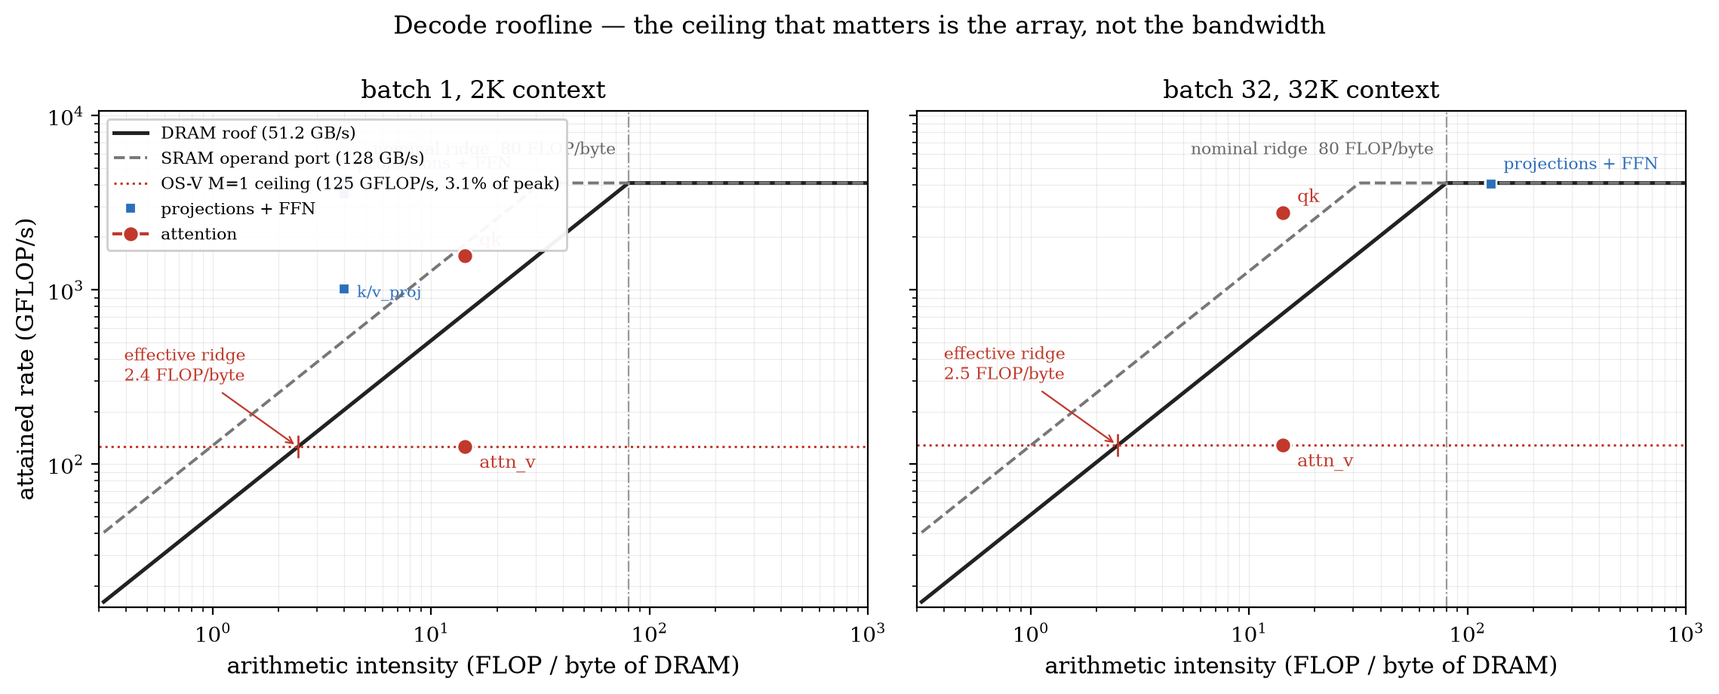
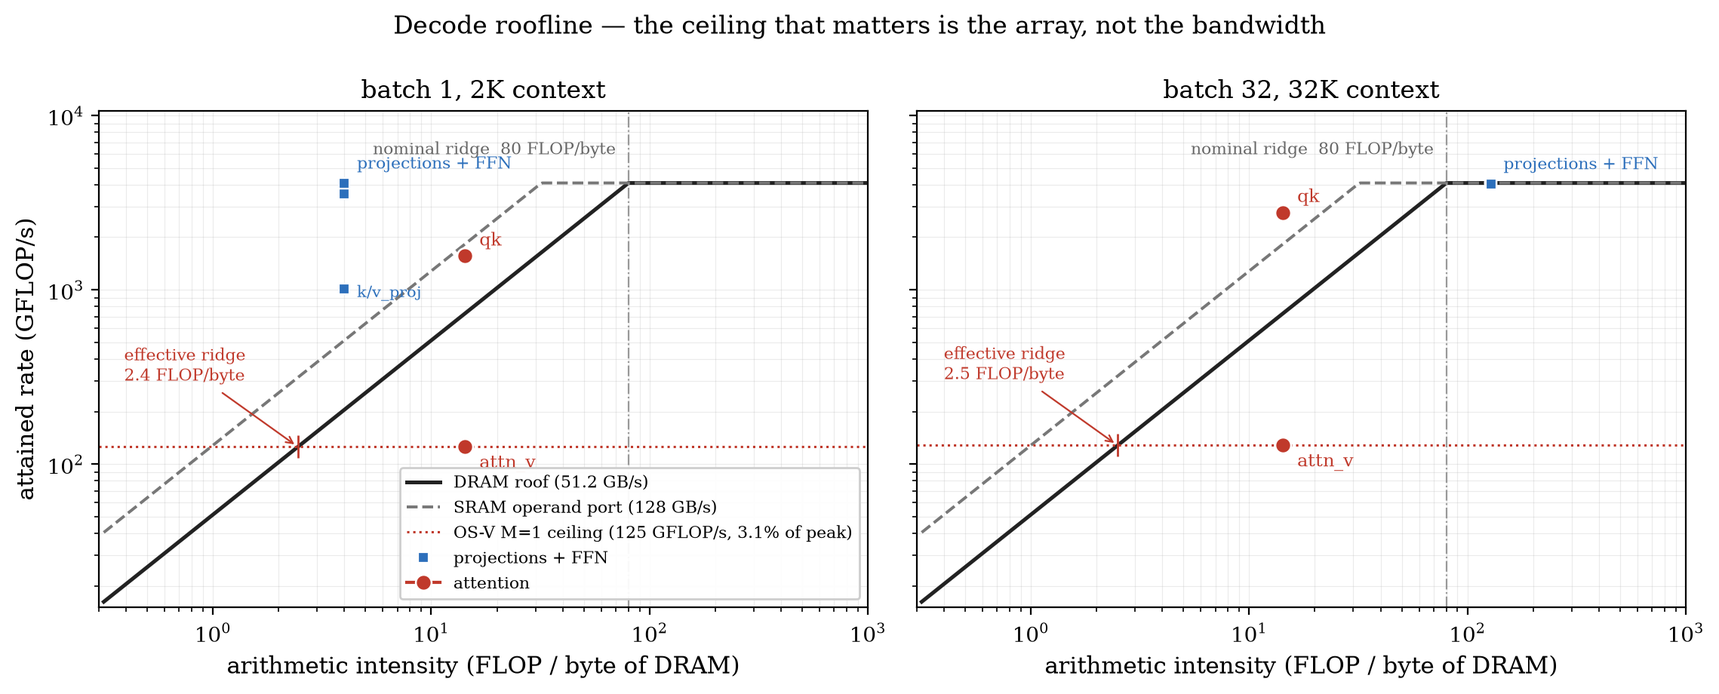
presentation2.md: the roofline, DRAM latency, and section 2 re-measured
Four things asked for, all applied.

ADDS THE ROOFLINE section 1 never had (1.5).  It answers the obvious
objection to the compute-bound verdict: decode attention runs at 14.2
FLOP/byte against an 80 FLOP/byte ridge, which reads as memory-bound.  The
80 assumes all 4,096 lanes work; attn_v lights one of 32 rows and attains
125 GFLOP/s -- 3.1% of peak -- so its effective ridge is 2.4 FLOP/byte and
14.2 clears it.  attn_v is compute-bound because the array is bad at this
shape, not because it does much arithmetic.  Also shows batching moving
the projections across the ridge (intensity 4.0 at batch 1, 128.0 at batch
32) while attention stays at 14.2 at every batch, and notes the identity
C/D = intensity / effective ridge reproduces the grid exactly.

ADDS DRAM LATENCY as the fourth leg (1.7), and it decides the verdict.
72 reads must be in flight to sustain 51.2 GB/s at 90 ns; a 32-deep queue
reaches 22.8 GB/s and the memory-bound region grows from 11 of 30 cells to
21 of 30, at 16 deep to 30 of 30.  The compute-bound triangle was an
artefact of assuming an unbounded request queue.

GIVES THE VERDICT EXPLICITLY, with SRAM considered (1.8): memory-bound in
11 of 30 cells under ideal memory, 21 of 30 at a 32-deep queue, everywhere
at 16 -- and SRAM decides none of it, neither capacity above 2 MB nor the
operand port at its design rate.  What decides it is DRAM and how deep a
queue you can keep full.  Both grids are printed side by side.
[…]

Changed region(s): [[0.2182, 0.6696, 0.4987, 0.8826], [0.0623, 0.1522, 0.3428, 0.3652]]

diff --git a/analysis/memory/plot_roofline.py b/analysis/memory/plot_roofline.py
@@ -134,7 +134,7 @@ def main():
     panel(axes[0], 1, 2048)
     panel(axes[1], 32, 32768)
     axes[0].set_ylabel('attained rate (GFLOP/s)')
-    axes[0].legend(loc='upper left', framealpha=0.95, fontsize=8)
+    axes[0].legend(loc='lower right', framealpha=0.95, fontsize=8)
     fig.suptitle('Decode roofline — the ceiling that matters is the array, '
                  'not the bandwidth', y=0.99)
     fig.tight_layout()

diff --git a/presentation2.md b/presentation2.md
@@ -2,19 +2,18 @@
 
 ## 1. The memory model
 
-### 1.1 The configuration being simulated
+### 1.1 The configuration
 
-| | value | where it comes from |
+| | value | source |
 |---|---|---|
-| PE array | **32 × 4**, 32 RACs/PE, MU=4 | = **4,096 lanes**, matched to a 64×64 MAC array |
-| clock | **500 MHz** | paper, TSMC 7 nm |
+| PE array | **32 × 4**, 32 RACs/PE, MU=4 | = **4,096 lanes** |
+| clock | **500 MHz** | TSMC 7 nm |
 | precision | W4 A16 **KV4** | Omni-LUT-KV4 |
-| DRAM | **51.2 GB/s**, 64 B burst | DDR5-6400 |
+| DRAM | **51.2 GB/s** peak, 64 B burst, ~90 ns | DDR5-6400 |
+| request queue | swept 16 → 128 outstanding | *not stated in the paper* |
 | operand port | **256 B/cycle = 128 GB/s** | `MU × array_n × NUM_RAC × kv_bits` |
 | unified buffer | swept 256 KB → unlimited | *not stated in the paper* |
 | model | LLaMA-3-8B, 32 layers, **GQA 32:8**, head_dim 128 | §1.8 scopes this |
-
-Balance point: `2 × 4096 × 500e6 / 51.2e9` = **80 FLOP/byte**.
 
 ### 1.2 The datapath
 
@@ -26,90 +25,118 @@ DRAM ──► unified buffer ──► BQU ──► LGU ──► PE array ─
         weight buffer ─────────────────────────────────┘
 ```
 
-- **Unified buffer** — on-chip staging for activations and KV. Not a cache: no tags, no replacement policy, no reuse tracking in this model.
-- **BQU** — quantises K/V to BCQ online, reading from and writing back to the unified buffer.
-- **LGU** — builds the lookup table from a 4-activation group. In OS-V decode, **one** LGU broadcasts to all 32 rows and the rest are gated off.
+- **Unified buffer** — on-chip staging for activations and KV. Not a cache: no tags, no replacement policy, no reuse tracking.
+- **BQU** — quantises K/V to BCQ online, reading from and writing back to the buffer.
+- **LGU** — builds the lookup table from a 4-activation group. In OS-V decode **one** LGU broadcasts to all 32 rows; the rest are gated off.
 - **PE array** — each PE holds a LUT for a 4-activation group, shared by 32 binary weights read-and-accumulated per cycle.
 
-### 1.3 What "buffering" means here — and what it does not
+Three legs are priced — DRAM, SRAM bytes, SRAM capacity — plus, now, the queue depth needed to reach DRAM's peak.
 
-The model prices **three** things and ignores a fourth:
+### 1.3 How the KV cache reaches the array
 
-| priced | how |
-|---|---|
-| DRAM **bytes** | `dram_read_eff + dram_write_eff`, with burst rounding |
-| SRAM **bytes** | `sram_read + sram_write`, ÷ `sram_bandwidth_gbps` |
-| SRAM **capacity** | `peak_sram_bytes` vs `sram_capacity_kb`, spilling to a refetch charge |
-| **not priced** | **latency.** No tRC/tRCD/CAS, no queueing, no MSHRs, no bank conflicts. |
-
-That last row is the load-bearing limitation, and §1.8 returns to it.
-
-### 1.4 How the KV cache actually reaches the array
-
-**It does not live on-chip.** `kv_sram_kb = 0` by default, so **the entire KV cache is re-read from DRAM on every decode step.** For LLaMA-3-8B at KV4:
+**It does not live on-chip.** The entire KV cache is re-read from DRAM on **every decode step**:
 
 - one KV entry (one token, one head) = `128 × 4/8` = **64 B — exactly one DDR5 burst**
 - per token per layer = `2 × 8 kv_heads × 128 × 0.5 B` = **1,024 B**
 - per token, all 32 layers = **32 KB**
 
-So the per-step KV read is `32 KB × context × batch`:
+Per-step KV read = `32 KB × context × batch`, against a **constant 2.55 GB of weights**:
 
 | | 2K ctx | 32K ctx |
 |---|---:|---:|
-| batch 1 | 0.06 GB | 1.00 GB |
-| batch 8 | 0.50 GB | 8.00 GB |
-| batch 32 | 2.00 GB | 32.00 GB |
+| batch 1 | 0.06 GB (2.4% of DRAM) | 1.00 GB (28.2%) |
+| batch 32 | 2.00 GB (44.0%) | 32.00 GB (**92.6%**) |
 
-against a **constant 2.55 GB of weights** per step. KV goes from **2.4%** of the DRAM bill to **92.6%** across that grid.
+**The buffer holds one instance's tile, not all of them.** `attn_v` is issued once per `(batch, kv_head)` instance, each streaming its own V tile — 2.00 MB at 32K. Measured peak working set is **2.06 MB at batch 1, 8 and 32 alike** — *constant in batch*. That is the model stating its pipeline assumption: instances stream one at a time, so the buffer needs one tile, never the **512 MB** the full working set would occupy at batch 32.
 
-**The buffer holds one instance's tile, not all of them.** `attn_v` is issued once per `(batch, kv_head)` instance, and each streams its own V tile:
-
-| | one V tile | all 8 kv_heads × batch 32 |
-|---|---:|---:|
-| 2K | 0.12 MB | 32 MB |
-| 8K | 0.50 MB | 128 MB |
-| 32K | **2.00 MB** | **512 MB** |
-
-Measured `peak_sram` for decode at 32K is **2.06 MB at batch 1, 8 and 32 alike** — *constant in batch*. That is the model telling you its own pipeline assumption: **instances are streamed one at a time, so the buffer needs one tile, never the 512 MB the whole working set would occupy.**
-
-### 1.5 What scales with batch, and what scales with context
-
-Three quantities, three behaviours — this is the whole mechanism:
+### 1.4 What scales with batch, and what with context
 
 | | with batch | with context |
 |---|---|---|
-| **compute** | ×N — each sequence needs its own projections and attention | grows — `kv_len` is attention's reduction dim |
-| **KV DRAM** | ×N — each sequence has its own cache | ×N — cache grows with length |
-| **weight DRAM** | **×1** — read once per step, serves all N | **×1** — independent of length |
+| **compute** | ×N | grows — `kv_len` is attention's reduction dim |
+| **KV DRAM** | ×N | ×N |
+| **weight DRAM** | **×1** — read once per step, serves all N | **×1** |
 
-Measured: **weight DRAM is 49.81 ms per token at every cell of the grid.** Every batch, every context, no exception.
+Measured: **weight DRAM is 49.81 ms per token at every cell of the grid.**
 
-So batching multiplies compute by N but DRAM by *less* than N — and how much less depends entirely on how much of DRAM was weights.
+Batching multiplies compute by N but DRAM by *less* than N — and how much less is entirely how much of DRAM was weights.
 
-### 1.6 The three legs: what actually binds
+### 1.5 The roofline
 
-Decode, per token, with the operand port charged at 128 GB/s:
+![Decode roofline](analysis/memory/roofline.png)
 
-| batch | ctx | compute | DRAM | SRAM | SRAM/max | **bound by** |
-|---:|---:|---:|---:|---:|---:|---|
-| 1 | 2K | 7.7 ms | **51.3 ms** | 24.9 ms | 0.49 | DRAM |
-| 1 | 8K | 20.9 ms | **55.7 ms** | 32.2 ms | 0.58 | DRAM |
-| 1 | 32K | 73.3 ms | **73.4 ms** | 61.3 ms | 0.83 | DRAM |
-| 8 | 2K | 57.5 ms | **61.6 ms** | 59.6 ms | **0.97** | DRAM |
-| 8 | 8K | **163.7 ms** | 97.0 ms | 117.8 ms | 0.72 | compute |
-| 8 | 32K | **582.9 ms** | 238.6 ms | 350.6 ms | 0.60 | compute |
-| 32 | 2K | **230.2 ms** | 97.0 ms | 178.6 ms | 0.78 | compute |
-| 32 | 8K | **654.8 ms** | 238.6 ms | 411.4 ms | 0.63 | compute |
-| 32 | 32K | **2331.5 ms** | 804.8 ms | 1342.5 ms | 0.58 | compute |
+The textbook reading says decode attention is memory-bound: intensity **14.2 FLOP/byte** against a ridge of `2 × 4096 × 500e6 / 51.2e9` = **80 FLOP/byte**, five and a half times inside the bandwidth-limited region.
 
-- **The operand port never wins — but by 3%, not comfortably.** Its worst cell is 0.97× at batch 8 / 2K, which flips at **124 GB/s against a 128 GB/s port.** Per-cell flip bandwidths: 62 (b1/2K), 107 (b1/32K), **124 (b8/2K)**, 99 (b32/2K), 74 (b32/32K).
-- That test **over-charges**: `sram_read + sram_write` lumps A-reads, B-reads and accumulator traffic against a *single* port. A real design splits them, so the true margin is wider.
-- **A finite buffer barely touches decode.** DRAM is unchanged from unlimited down to **1 MB**, moving 2.7% only at 256 KB — and never from attention. Prefill DRAM rises **3.3× at 8 MB**. Decode re-reads the whole cache every step, so a small buffer has no reuse to destroy; prefill has reuse and loses it.
-- **The regime map is identical at 4 MB + 128 GB/s to the ideal-memory numbers, cell for cell.**
+**That reading is wrong, and the plot shows why.** The 80 FLOP/byte ridge assumes all 4,096 lanes work. `attn_v` is `(M=1, K=kv_len, N=head_dim)` — it lights **one of 32 PE rows** and attains **125 GFLOP/s, 3.1% of peak**, at every batch and every context. Against *that* ceiling the ridge is `125 / 51.2` = **2.4 FLOP/byte**, and 14.2 clears it comfortably.
 
-### 1.7 The verdict
+| op | intensity | attained | of peak |
+|---|---:|---:|---:|
+| projections + FFN (batch 1) | 4.0 | 1,014–4,085 GFLOP/s | 25–99% |
+| projections + FFN (batch 32) | **128.0** | ~3,940 GFLOP/s | 96% |
+| `qk_matmul` | 14.2 | 2,774 GFLOP/s | 68% |
+| **`attn_v_matmul`** | 14.2 | **128 GFLOP/s** | **3.1%** |
 
-> **Memory-bound at low batch and short context; compute-bound everywhere else. The on-chip memory system decides neither.**
+- **`attn_v` is compute-bound not because it does much arithmetic, but because the array is bad at this shape.**
+- **Batching moves the projections across the ridge**: intensity 4.0 at batch 1 (weight-dominated, DRAM-bound) → 128.0 at batch 32 (compute-bound). That single number is the whole batch story.
+- Attention's intensity is **14.2 at every batch** — both its FLOPs and its KV bytes scale with N, so batching cannot move it.
+- The identity `C/D = intensity ÷ effective ridge` reproduces the grid exactly: at b1/2K, `4.3 ÷ 28.7` = 0.15; at b1/32K, `7.3 ÷ 7.29` = 1.00.
+
+### 1.6 The third leg: SRAM
+
+Charged at the array's own 128 GB/s operand port:
+
+| batch | ctx | compute | DRAM | SRAM | SRAM/max |
+|---:|---:|---:|---:|---:|---:|
+| 1 | 2K | 7.7 ms | **51.3 ms** | 24.9 ms | 0.49 |
+| 1 | 32K | 73.3 ms | **73.4 ms** | 61.3 ms | 0.83 |
+| 8 | 2K | 57.5 ms | **61.6 ms** | 59.6 ms | **0.97** |
+| 32 | 32K | **2331.5 ms** | 804.8 ms | 1342.5 ms | 0.58 |
+
+- **SRAM never sets the roofline — but by 3%, not comfortably.** Its worst cell flips at **124 GB/s against a 128 GB/s port**.
+- The test **over-charges**: A-reads, B-reads and accumulator traffic are lumped against a *single* port. A real design splits them.
+- **A finite buffer barely touches decode.** DRAM is unchanged from unlimited down to **1 MB**, moving 2.7% only at 256 KB — and never from attention. Prefill DRAM rises **3.3× at 8 MB**: decode re-reads everything every step, so a small buffer destroys no reuse; prefill has reuse and loses it.
+
+### 1.7 The fourth leg: DRAM latency — and it decides the verdict
+
+51.2 GB/s is a **peak**. Reaching it needs enough reads in flight to cover the round trip (Little's law):
+
+```
+reachable_bw = min(peak, outstanding × burst / latency)
+```
+
+| latency | reads in flight needed for 51.2 GB/s |
+|---:|---:|
+| 60 ns | 48 |
+| **90 ns** | **72** (4.5 KB in the air at all times) |
+| 120 ns | 96 |
+
+| queue depth | reachable | of peak |
+|---:|---:|---:|
+| 16 | 11.4 GB/s | 22% |
+| **32** | **22.8 GB/s** | **44%** |
+| 64 | 45.5 GB/s | 89% |
+| 72+ | 51.2 GB/s | 100% |
+
+**Bandwidth is a property of the DRAM *and the requester*.** And it moves the grid:
+
+| profile | effective BW | memory-bound cells | C/D at b1/32K |
+|---|---:|---:|---:|
+| no latency term | 51.2 GB/s | **11 of 30** | 1.00 |
+| 90 ns, 128 deep | 51.2 GB/s | 11 of 30 | 1.00 |
+| 90 ns, 64 deep | 45.5 GB/s | 13 of 30 | 0.89 |
+| **90 ns, 32 deep** | **22.8 GB/s** | **21 of 30** | **0.44** |
+| **90 ns, 16 deep** | **11.4 GB/s** | **30 of 30** | **0.22** |
+
+> **The compute-bound triangle was an artefact of assuming an infinitely deep request queue.**
+
+### 1.8 The verdict
+
+> **Under ideal memory: memory-bound in a low-batch, short-context triangle (11 of 30 cells), compute-bound elsewhere.**
+> **Under a realistic 32-deep request queue: memory-bound in 21 of 30 cells.**
+> **Under a 16-deep queue: memory-bound everywhere.**
+> **SRAM never decides it — neither capacity above ~2 MB nor the operand port at its design rate. What decides it is DRAM, and how deep a queue you can afford to keep full.**
+
+Ideal-memory grid (compute ÷ DRAM; below 1.00 the array waits):
 
 | batch | 2K | 4K | 8K | 16K | 32K |
 |---:|---:|---:|---:|---:|---:|
@@ -120,36 +147,36 @@ Decode, per token, with the operand port charged at 128 GB/s:
 | 16 | **1.57** | 1.93 | 2.27 | 2.54 | 2.73 |
 | 32 | 2.37 | 2.60 | 2.74 | 2.84 | 2.90 |
 
-- Compute ÷ DRAM. Below 1.00 the array waits on memory. First compute-bound batch: **16 at 2K · 8 at 4K · 4 at 8K · 2 at 16K · 2 at 32K.**
-- **The boundary is diagonal because weight DRAM is a constant floor** (49.81 ms) while compute grows on *both* axes. At batch 1, DRAM moves 1.43× from 2K→32K while compute moves 9.56×.
-- **And inside the memory-bound corner, the binding resource is weights, not KV.** At 2K / batch 1: weights **97.1%** of DRAM, KV **2.9%**, array idle **86%**.
-- **Ceiling if a resource were free:** deleting the *entire* KV cache at batch 1 buys **1.01× at 2K, 1.07× at 32K**. Weight bytes buy **6.80×** inside the triangle; array occupancy **3.12×** outside it. Neither is a KV technique.
+At a 32-deep queue the same grid:
 
-### 1.8 Scope, and what the model idealises
+| batch | 2K | 4K | 8K | 16K | 32K |
+|---:|---:|---:|---:|---:|---:|
+| 1 | 0.07 | 0.10 | 0.17 | 0.28 | 0.44 |
+| 2 | 0.12 | 0.19 | 0.30 | 0.46 | 0.67 |
+| 4 | 0.23 | 0.34 | 0.50 | 0.70 | 0.90 |
+| 8 | 0.42 | 0.57 | 0.75 | 0.94 | **1.09** |
+| 16 | 0.70 | 0.86 | **1.01** | **1.13** | **1.21** |
+| 32 | **1.05** | **1.16** | **1.22** | **1.26** | **1.29** |
+
+**And inside the memory-bound region the binding resource is weights, not KV.** At 2K / batch 1: weights **97.1%** of DRAM, KV **2.9%**, array idle **86%** — and latency does not change that, it deepens it.
+
+### 1.9 Scope, and what is still idealised
 
 **This is a GQA result.** The Omni-LUT paper evaluates OPT-1.3B/2.7B/6.7B/13B/30B and LLaMA2-7B/13B — **all MHA**:
 
 | configuration | max `C/D` over 30 cells | compute-bound cells |
 |---|---:|---|
-| LLaMA-3-8B GQA, KV4 *(above)* | 2.90 | the triangle |
-| OPT-6.7B **MHA**, KV4 | 1.07 | **1 of 30** |
+| LLaMA-3-8B GQA, KV4 | 2.90 | the triangle |
+| OPT-6.7B **MHA**, KV4 | 1.07 | 1 of 30 |
 | OPT-6.7B **MHA**, KV16 | **0.94** | **none** |
 
-- On MHA at KV16 decode is memory-bound **in every cell**. The literature's premise is right for the configuration it was written about.
-- GQA divides KV traffic by 4 and attention compute by nothing → 4× the arithmetic intensity.
-- **More KV bits make decode *more* compute-bound** (`cycles ∝ qbit` on a bit-serial array).
-- So the 1.01–1.07× KV ceiling is **what remains after GQA and KV4 have been applied** — on MHA/KV16 it is 1.11×/1.46×.
+**So there were two independent reasons this model disagreed with the literature about bound-ness, and either alone is sufficient:** the paper measures MHA, and no roofline here charged for latency. Under either correction, decode is memory-bound where the paper says it is.
 
-**Three idealisations, in order of how much they matter:**
+**What remains idealised:**
 
-1. **No latency term anywhere.** No tRC/tRCD/CAS, no queueing, no MSHRs, no contention. Every number is a bandwidth-and-count roofline.
-2. **KV buffer pressure is inexpressible.** The spill charge is `A_bytes × (n_tiles − 1)`, and `attn_v` has `N = head_dim = 128` → `n_tiles = 1` → the charge is **identically zero at any buffer size**, against a 2.06 MB working set. At a 256 KB buffer every other decode op pays a refetch charge and attention pays nothing. **The op that is 88% of decode cycles is the one the model cannot charge for buffering.** Zero extra *bytes* is defensible — there is no reuse to lose — but what a small buffer really costs is keeping the array fed across DRAM latency, and see (1).
-3. **The prefill spill charge prices an assumed loop order**, re-reading `A` once per N-tile. Read prefill capacity numbers as *the overflow predicate fires here*, not as *prefill costs this much*.
-
-> **What this licenses:** the compute/memory verdict is robust to on-chip capacity above ~2 MB and to any operand port at or above the array's own feed rate.
-> **What it does not:** any claim about how small the unified buffer can be.
-
-*Measured by `analysis/memory/regime_run.py` and `analysis/memory/sram_run.py`.*
+1. **The latency term is a throughput clamp, not a latency model.** Steady-state, streaming reads. No dependent chains, no row misses, no refresh, and no allowance for a gather whose requests cannot all be in flight. **A scattered KV read does worse than modelled here.**
+2. **KV buffer pressure is inexpressible.** The spill charge is `A_bytes × (n_tiles − 1)`, and `attn_v` has `N = head_dim = 128` → `n_tiles = 1` → **identically zero at any buffer size**, against a 2.06 MB working set. The op that is 88% of decode cycles is the one that cannot be charged for buffering.
+3. **The prefill spill charge prices an assumed loop order.** Read prefill capacity numbers as *the predicate fires here*, not as *prefill costs this much*.
 
 ---
 
@@ -174,7 +201,7 @@ rounds    = ceil(n_tiles / array_m)
 n_tiles   = ceil(N / (array_n × NUM_RAC))
 ```
 
-For decode `attn_v` — `(M=1, K=kv_len, N=head_dim=128)`, `MU=4`, `array_m=32`, `array_n=4`, `NUM_RAC=32`:
+For decode `attn_v` — `(M=1, K=kv_len, N=head_dim=128)`:
 
 ```
 per_round = ceil(kv_len/4) + 10      ← the fixed 10 is the knee constant
@@ -191,16 +218,16 @@ rounds    = ceil(1/32)   = 1
 | token, read-only | Quest, TidalDecode | `k_eff`, storage unchanged | linear | linear | 12.85× b32 |
 | **bit-width** (`qbit`) | KV3 / KV2 | outer multiplier | **linear** | **linear** | **~1.07–1.14× energy** * |
 
-<sub>\* KV2 vs KV4, read from the Omni-LUT paper's Fig. 10 energy bars — the one row measured elsewhere, and in a different unit. Every other figure is TPOT from our own model.</sub>
+<sub>\* KV2 vs KV4, from the Omni-LUT paper's Fig. 10 energy bars — the one row measured elsewhere, and in a different unit. Every other figure is TPOT from our own model.</sub>
 
 ### 2.3 Row by row
 
 **Channel — the null**
 
-- `head_dim` is `attn_v`'s **output** dim `N`, and `N` reaches cycles through exactly one term: `ceil(N/128)`.
+- `head_dim` is `attn_v`'s **output** dim `N`, reaching cycles through exactly one term: `ceil(N/128)`.
 - For every `N ≤ 128` that term is **1**. Pruning 128 → 64, or → 8, does not change it.
-- `N` is not weakly present. It is **absent** — which is why the result is *exactly* 1.000×, not 1.03×.
-- Channel pruning does shrink `qk` — but `qk` is **4.1% of decode**, because in `LUT_OS_V` qk's `N` is `kv_len` (parallelised) while attn_v's is `head_dim` (serialised over the cache).
+- `N` is not weakly present. It is **absent** — which is why the result is *exactly* 1.000×.
+- Channel pruning does shrink `qk` — but `qk` is **4.1% of decode**.
 - **The axis that saves cycles is the stage that costs nothing.**
 
 **Token — the survivor, and the proof the table is honest**
@@ -213,55 +240,74 @@ rounds    = ceil(1/32)   = 1
 **Token, read-only — the control**
 
 - Quest reads fewer blocks but stores the full cache → **byte-identical to eviction** on the read path.
-- If bytes decided, the two would be indistinguishable. If `k_eff` decides, they should nearly coincide.
-- They do: **12.85× vs 15.96×** at batch 32. The residual gap is **storage, not compute**.
+- If bytes decided, the two would be indistinguishable. If `k_eff` decides, they should nearly coincide — and they do: **12.85× vs 15.96×**. The residual gap is **storage, not compute**.
 
 **Bit-width — the axis with no null anywhere**
 
 - `qbit` multiplies the *entire* expression; no `ceil` sits outside it to absorb it.
-- KV4 → KV3 is 0.75× cycles **and** 0.75× bytes — unconditionally, every context, every batch.
+- KV4 → KV3 is 0.75× cycles **and** 0.75× bytes, unconditionally.
 - **Channel pruning has a rounding boundary to die on. Bit-width does not.**
 
-### 2.4 The discriminator
+### 2.4 The ceilings, under a realistic memory profile
+
+The bound that makes this quantitative: speedup if that resource became **entirely free**. Latency makes DRAM bind harder, so a KV technique should be worth *more* — the question is how much.
+
+**Delete the entire KV cache:**
+
+| profile | b1 / 2K | b1 / 32K | b32 / 2K | b32 / 32K |
+|---|---:|---:|---:|---:|
+| ideal memory | 1.01× | 1.07× | 1.05× | 1.12× |
+| 90 ns, 64 deep | 1.01× | 1.08× | 1.07× | 1.14× |
+| **90 ns, 32 deep** | **1.01×** | 1.13× | 1.16× | 1.32× |
+| **90 ns, 16 deep** | **1.01×** | 1.17× | 1.26× | **1.65×** |
+
+**Delete all weight traffic:**
+
+| profile | b1 / 2K | b1 / 32K | b32 / 2K | b32 / 32K |
+|---|---:|---:|---:|---:|
+| ideal memory | 6.80× | 1.57× | 1.00× | 1.00× |
+| 90 ns, 32 deep | **13.14×** | 2.13× | 1.11× | 1.01× |
+| 90 ns, 16 deep | **21.78×** | 2.79× | 1.44× | 1.04× |
+
+- **The realistic profile sharpens §2's conclusion rather than softening it.** Latency makes memory bind harder — but the memory that binds at low batch is *weights*. The weight ceiling triples, 6.80× → 21.78×; the KV ceiling at b1/2K does not move **at all**, staying **1.01× under every profile**.
+- KV work does gain where KV already dominated: **1.12× → 1.65×** at batch 32 / 32K. Real, and still not the order of magnitude the byte counts suggest.
+- **The one-line rule survives verbatim:** deleting the entire cache buys 1.01× at batch 1 / 2K whether DRAM runs at 51.2 GB/s or 11.4.
+
+### 2.5 The discriminator
 
 > The question is never *"how many bytes does this remove?"*
 > It is *"does it reach `k_eff` or `qbit`?"*
 
-- Touches only DRAM → lands inside §1.7's **1.01–1.07×** batch-1 ceiling.
+- Touches only DRAM → lands inside the ceiling above.
 - Lowers the compute roof → survives.
 - Checkable on paper before a single simulation runs.
 
-### 2.5 Bit-width: confirmed by the paper, and bounded by it
+### 2.6 Bit-width: confirmed by the paper, bounded by it
 
-- **The mechanism is confirmed by construction.** The Omni-LUT paper builds KV3 and KV2 and states it in our terms: KV2 "eliminates 33% (vs. KV3) and 50% (vs. KV4) of the computational workload from these AA-GEMM bottlenecks" — that is `cycles ∝ qbit`.
-- **The payoff is smaller than the halving implies.** Its Fig. 10 energy bars put KV2 within ≈ **1.07×** of KV4 on a decode-heavy workload (2K in, 2048 out) and ≈ **1.14×** on a prefill-heavy one (8K in, 256 out) — for an axis that halves bytes *and* cycles.
-- Same lesson as §1.7, on a different metric: even the axis with no null runs into the fact that neither KV bytes nor AA cycles are the whole of decode.
-- **It composes with eviction rather than competing.** `cycles ∝ k_eff × qbit` → the two axes are orthogonal and **multiply**; evict-1024 at KV3 ≈ the *product*, not the larger.
-- Contrast: channel + token pruning both claim bytes from the same tensor, so their savings sub-add.
+- **The mechanism is confirmed by construction.** The paper builds KV3 and KV2 and states it in our terms: KV2 "eliminates 33% (vs. KV3) and 50% (vs. KV4) of the computational workload from these AA-GEMM bottlenecks" — that is `cycles ∝ qbit`.
+- **The payoff is smaller than the halving implies.** Its Fig. 10 energy bars put KV2 within ≈ **1.07×** of KV4 on a decode-heavy workload and ≈ **1.14×** on a prefill-heavy one — for an axis that halves bytes *and* cycles.
+- **It composes with eviction rather than competing.** `cycles ∝ k_eff × qbit` → orthogonal, so they **multiply**; evict-1024 at KV3 ≈ the *product*.
 - **Still open on our side:** the paper measures *energy*. The **latency** effect of KV3/KV2, and how it stacks with eviction, is what our model can add.
 
-### 2.6 All of it was measured in the wrong place
+### 2.7 All of it was measured in the wrong place
 
 ![KV reduction vs batch](analysis/memory/kv_batch.png)
 
-- **Weight traffic is constant in batch** — 7.65 GB, read once, however many sequences are in flight.
+- **Weight traffic is constant in batch** — read once, however many sequences are in flight.
 - **KV traffic scales with batch** — every sequence carries its own cache.
 - So KV's *share* of DRAM, and the payoff for cutting it, **grows with batch**.
 - `evict-1024`: **2.46× at batch 1 → 15.96× at batch 32.**
 
-### 2.7 Eviction is the exception that still obeys the rule
+### 2.8 Eviction is the exception that still obeys the rule
 
-- Its batch-1 figure is **1.45×** under the pipelined model — inside the same ceiling as everything else here.
-- The **15.96× is a batch-32 result**, earned exactly where §1's triangle says bytes finally bind.
-- And at batch 32 it wins twice: eviction also lowers the **compute** roof, since `kv_len` is `attn_v`'s reduction dim.
+- Its batch-1 figure is **1.45×** under the pipelined model — inside the same ceiling as everything else.
+- The **15.96× is a batch-32 result**, earned exactly where bytes finally bind.
+- At batch 32 it wins twice: eviction also lowers the **compute** roof, since `kv_len` is `attn_v`'s reduction dim.
 - **A technique that moves both roofs is robust. One that moves only the slack roof is not.**
 
-### 2.8 What §2 does *not* establish
+### 2.9 What §2 does *not* establish
 
-- **The channel null is `attn_v`-specific** — it depends on `head_dim ≤ 128` making `n_tiles = 1`. A wider head, or `qk` instead of `attn_v`, changes the row.
-- **"Compute-bound" is scoped to GQA + KV4** (§1.8). On MHA at KV16 the KV share is 25–84%, not 2.9%, and the ceiling is 1.11–1.46×.
-- **The batch-1 numbers assume the serial roofline.** Under pipelining, eviction's 2.46× becomes 1.452× — which strengthens §2.3 and weakens nothing in §2.6.
-
----
-
-*Findings-only cut: `presentation.md`. Full derivations, model-change record, staged revert points and open gaps: `study.md`.*
+- **The channel null is `attn_v`-specific** — it depends on `head_dim ≤ 128` making `n_tiles = 1`.
+- **Scoped to GQA + KV4** (§1.9). On MHA at KV16 the KV share is 25–84%, not 2.9%, and the ideal-memory ceiling is 1.11–1.46× before any latency correction.
+- **The batch-1 numbers assume the serial roofline.** Under pipelining, eviction's 2.46× becomes 1.452×.
+- **A scattered read is charged optimistically** (§1.9). Selective-KV methods that gather non-contiguous blocks cannot keep the request queue as full as a streaming read, so their true cost is above what any table here shows.
